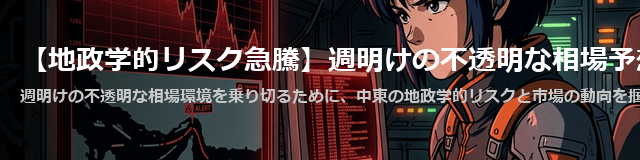
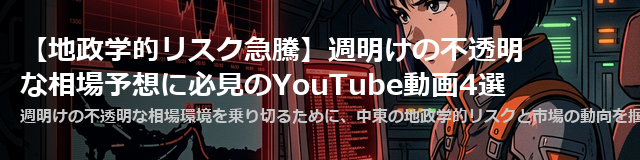
Fix thumbnail text overflow with automated wrapping

Changed region(s): [[0.0312, 0.2188, 1.0, 0.7812]]

diff --git a/scripts/crop_and_place_thumbnail.py b/scripts/crop_and_place_thumbnail.py
@@ -1,7 +1,7 @@
 import os
 import sys
 import re
-from PIL import Image
+from PIL import Image, ImageDraw, ImageFont
 
 BASE_DIR = os.path.dirname(os.path.dirname(os.path.abspath(__file__)))
 ARTICLES_PATH = os.path.join(BASE_DIR, "data", "articles.ts")
@@ -39,11 +39,65 @@ def crop_and_resize(input_path, output_path, title="", subtitle=""):
         bottom = top + TARGET_HEIGHT
         
     img = img.crop((left, top, right, bottom))
+
+    # --- Draw Text Overlay ---
+    overlay = Image.new('RGBA', (TARGET_WIDTH, TARGET_HEIGHT), (0, 0, 0, 0))
+    overlay_draw = ImageDraw.Draw(overlay)
+    # Gradient overlay from left
+    for x in range(TARGET_WIDTH):
+        alpha = int(200 * (1 - x / (TARGET_WIDTH * 0.8)))
+        if alpha < 0: alpha = 0
+        overlay_draw.line([(x, 0), (x, TARGET_HEIGHT)], fill=(0, 0, 0, alpha))
+    
+    img = Image.alpha_composite(img, overlay)
+    draw = ImageDraw.Draw(img)
+
+    try:
+        title_font = ImageFont.truetype(FONT_PATH, 28)
+        subtitle_font = ImageFont.truetype(FONT_PATH, 16)
+    except:
+        title_font = ImageFont.load_default()
+        subtitle_font = ImageFont.load_default()
+
+    # --- Helper for text wrapping ---
+    def wrap_text(text, font, max_width):
+        lines = []
+        words = list(text) # Since it's Japanese, chars are better than words for wrapping
+        current_line = ""
+        for char in words:
+            test_line = current_line + char
+            w = draw.textlength(test_line, font=font)
+            if w <= max_width:
+                current_line = test_line
+            else:
+                lines.append(current_line)
+                current_line = char
+        lines.append(current_line)
+        return lines
+
+    # Wrap and Draw Title
+    title_max_width = TARGET_WIDTH * 0.8
+    title_lines = wrap_text(title, title_font, title_max_width)
+    
+    # Only allow 2 lines for title, truncate if more
+    if len(title_lines) > 2:
+        title_lines = title_lines[:2]
+        title_lines[1] = title_lines[1][:len(title_lines[1])-1] + "..."
+
+    y_offset = 30
+    for line in title_lines:
+        draw.text((20, y_offset), line, font=title_font, fill=(255, 255, 255, 255))
+        y_offset += 35
+    
+    # Draw Subtitle (adjust based on title height)
+    if len(subtitle) > 40:
+        subtitle = subtitle[:37] + "..."
+    draw.text((20, y_offset + 5), subtitle, font=subtitle_font, fill=(200, 200, 200, 255))
     
     # Save image (converting to RGB to drop alpha for JPEG/PNG uniformity if needed)
     img = img.convert("RGB")
     img.save(output_path, quality=90)
-    print(f"Successfully cropped and saved to {output_path}")
+    print(f"Successfully cropped, labeled, and saved to {output_path}")
 
 def get_article_details(article_id):
     with open(ARTICLES_PATH, "r", encoding="utf-8") as f:
@@ -53,8 +107,7 @@ def get_article_details(article_id):
         r"\{\s*"
         r"id:\s*'([^']+)',\s*"
         r"title:\s*'([^']+)',\s*"
-        r"date:\s*'([^']+)',\s*"
-        r"(?:thumbnail:\s*'[^']+',\s*)?"
+        r"date:\s*'([^']+)',.*?"
         r"content:\s*`(.*?)`,\s*"
         r"\}", 
         re.DOTALL
@@ -83,8 +136,8 @@ def inject_to_articles(article_id, img_rel_path):
         r"\{\s*"
         r"id:\s*'([^']+)',\s*"
         r"title:\s*'([^']+)',\s*"
-        r"date:\s*'([^']+)',\s*"
-        r"(?:thumbnail:\s*'[^']+',\s*)?"
+        r"date:\s*'([^']+)',"
+        r"(.*?)"
         r"content:\s*`(.*?)`,\s*"
         r"\}", 
         re.DOTALL
@@ -95,43 +148,33 @@ def inject_to_articles(article_id, img_rel_path):
         if current_id != article_id:
             return match.group(0)
             
-        article_full = match.group(0)
         article_title = match.group(2)
+        article_date = match.group(3)
+        article_props = match.group(4)
+        article_content = match.group(5)
         
-        # Check if thumbnail already exists in the block
-        has_thumbnail_prop = "thumbnail:" in article_full
+        # Check if thumbnail already exists in the props
+        if "thumbnail:" not in article_props:
+            article_props = f"\n    thumbnail: '{img_rel_path}'," + article_props
         
-        # if missing property, inject it
-        if not has_thumbnail_prop:
-            article_full = re.sub(
-                r"(date:\s*'[^']+',)",
-                rf"\1\n    thumbnail: '{img_rel_path}',",
-                article_full,
-                count=1
-            )
-            
-        # Optional: update content string to prepend <img> tag if it's not already there
-        # but since we are replacing old thumbnails or injecting anew:
         img_html = f'<div style="text-align: center; margin: 24px 0;">\n        <img src="{img_rel_path}" alt="{article_title}" style="max-width: 100%; height: auto; border-radius: 8px; box-shadow: 0 4px 6px rgba(0,0,0,0.1);" />\n      </div>'
         
-        # We want to replace the old generated img if it exists
-        replaced_full, count = re.subn(
-            r'<div style="text-align: center; margin: 24px 0;">\s*<img src="/images/[A-Za-z0-9_-]+\.png" alt="[^"]+" style="[^"]+" />\s*</div>',
-            img_html,
-            article_full,
-            count=1
-        )
-        article_full = replaced_full
-        
-        # If sub failed (no previous image), inject after <p class="intro">
-        if count == 0 and img_html not in article_full:
-            if '</p>' in article_full:
-                parts = article_full.split('</p>', 1)
-                article_full = parts[0] + '</p>\n\n      ' + img_html + parts[1]
+        # Replace or inject img in content
+        if '<div style="text-align: center; margin: 24px 0;">' in article_content and 'img src="/images/' in article_content:
+             article_content = re.sub(
+                r'<div style="text-align: center; margin: 24px 0;">\s*<img src="/images/[A-Za-z0-9_-]+\.png" alt="[^"]+" style="[^"]+" />\s*</div>',
+                img_html,
+                article_content,
+                count=1
+            )
+        elif img_html not in article_content:
+            if '</p>' in article_content:
+                parts = article_content.split('</p>', 1)
+                article_content = parts[0] + '</p>\n\n      ' + img_html + parts[1]
             else:
-                article_full = article_full.replace("content: `", f"content: `\n      {img_html}\n", 1)
+                article_content = "\n      " + img_html + article_content
                     
-        return article_full
+        return f"{{\n    id: '{current_id}',\n    title: '{article_title}',\n    date: '{article_date}',{article_props}content: `{article_content}`,\n  }}"
 
     new_content = pattern.sub(replacer, content)
 
